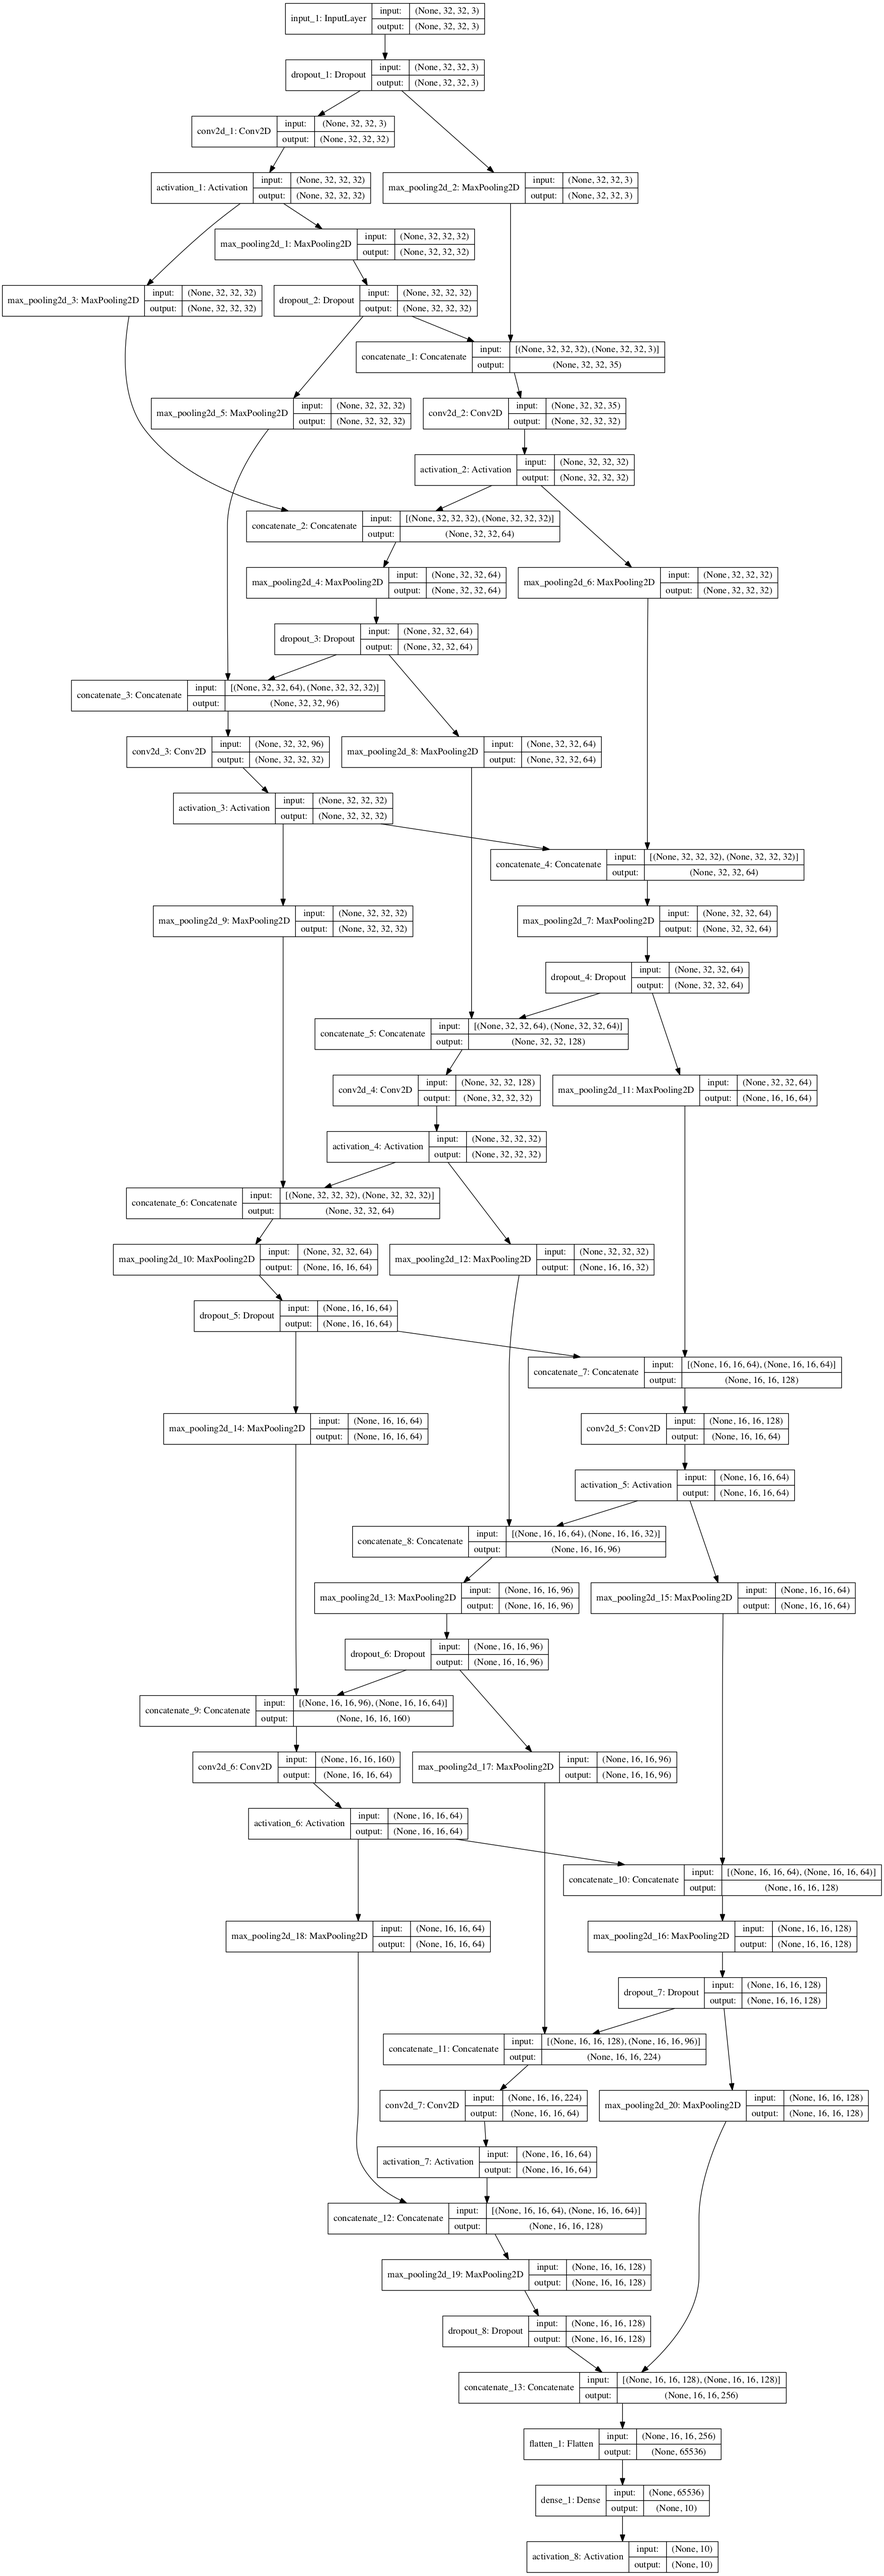
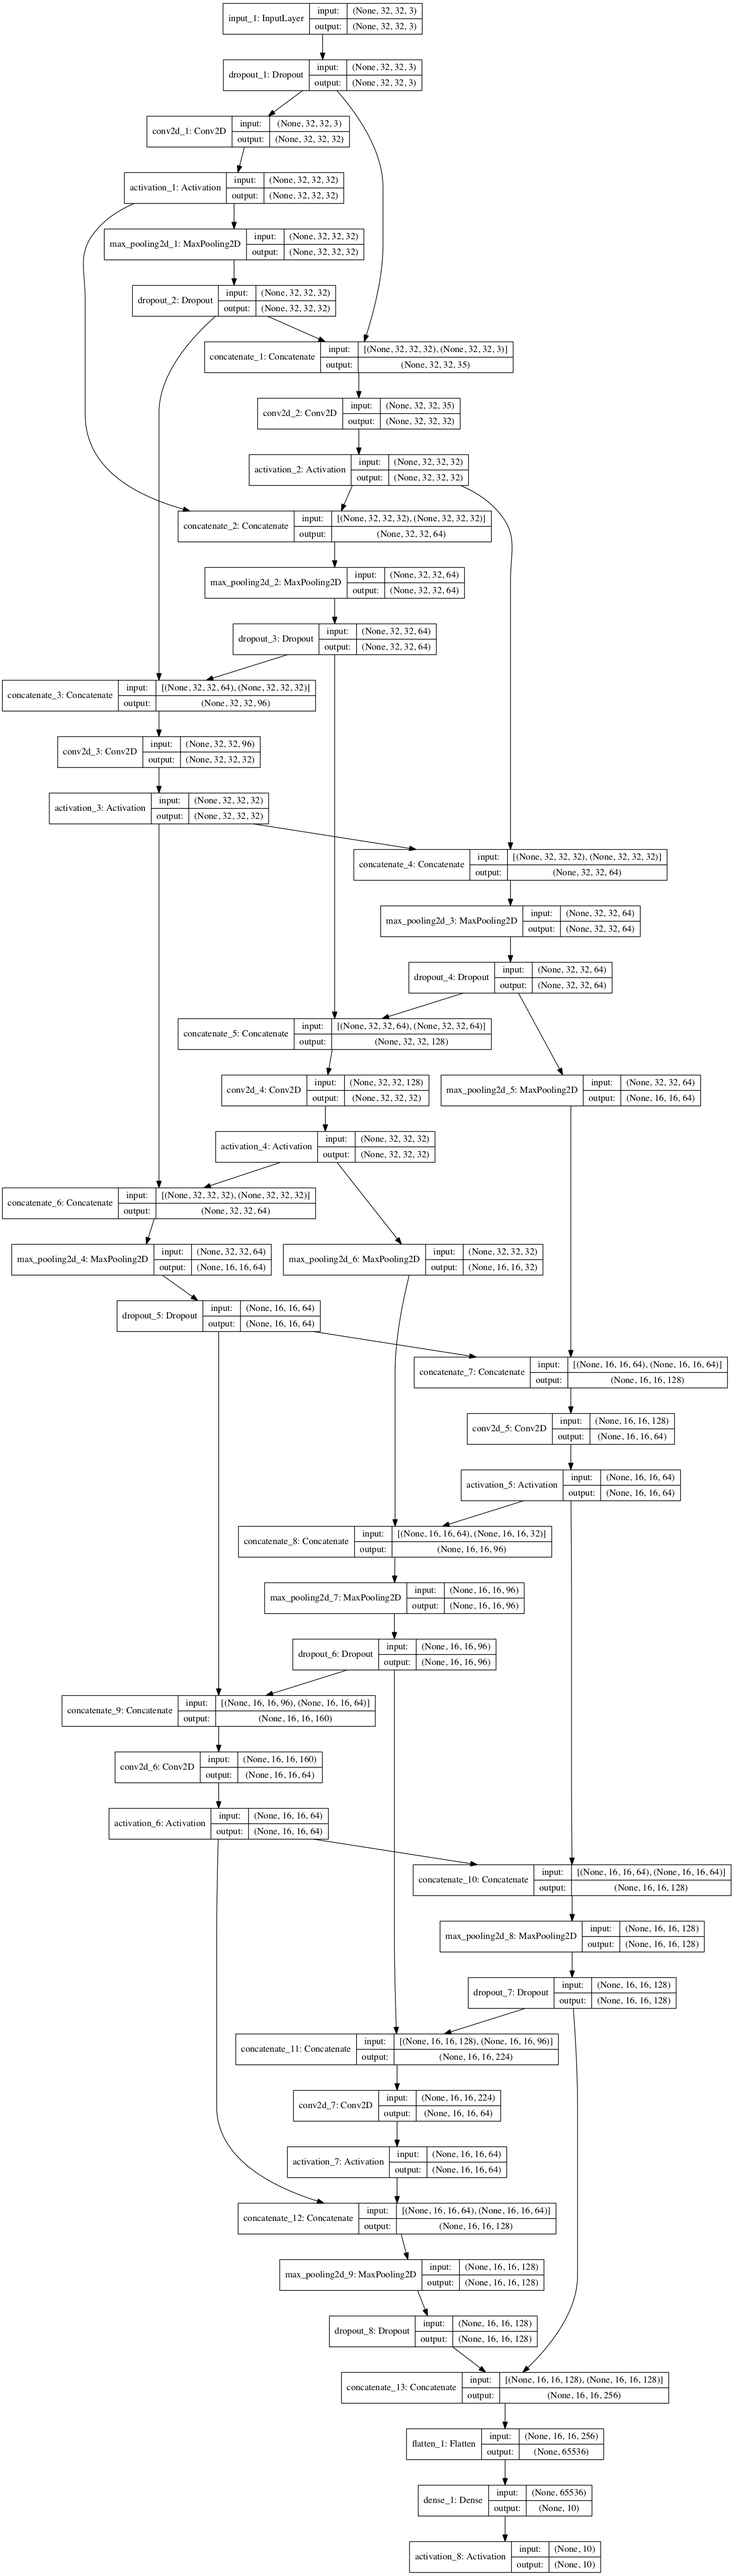
testing more dimension reduction

diff --git a/all_cnn_bi_skippy.py b/all_cnn_bi_skippy.py
@@ -74,18 +74,21 @@ class Skip_manager(object):
             return Concatenate()([layer, incoming_layer])
 
     def pool_pad_connect(self, layer, incoming_layer):
-        if K.int_shape(incoming_layer)[1] < K.int_shape(layer)[1] and K.int_shape(incoming_layer)[2] < K.int_shape(layer)[2]:
-            pass
-        elif K.int_shape(incoming_layer)[1] < K.int_shape(layer)[1] and K.int_shape(incoming_layer)[2] >= K.int_shape(layer)[2]:
-            print('error, not implemented yet')
-            pass
-        elif K.int_shape(incoming_layer)[1] >= K.int_shape(layer)[1] and K.int_shape(incoming_layer)[2] < K.int_shape(layer)[2]:
-            print('error, not implemented yet')
-            pass
-        else: #K.int_shape(incoming_layer)[1] > K.int_shape(layer)[1] and K.int_shape(incoming_layer)[2] > K.int_shape(layer)[2]
-            scalar_1 =  K.int_shape(incoming_layer)[1] // K.int_shape(layer)[1]
-            scalar_2 =  K.int_shape(incoming_layer)[2] // K.int_shape(layer)[2]
-            incoming_layer = MaxPooling2D(pool_size=(scalar_1, scalar_2), strides=(scalar_1, scalar_2), padding='same')(incoming_layer)
+        if K.int_shape(incoming_layer)[1] != K.int_shape(layer)[1] or K.int_shape(incoming_layer)[2] != K.int_shape(layer)[2]:
+            if K.int_shape(incoming_layer)[1] < K.int_shape(layer)[1] and K.int_shape(incoming_layer)[2] < K.int_shape(layer)[2]:
+                pass
+            elif K.int_shape(incoming_layer)[1] < K.int_shape(layer)[1] and K.int_shape(incoming_layer)[2] >= K.int_shape(layer)[2]:
+                scalar = K.int_shape(incoming_layer)[2] // K.int_shape(layer)[2]
+                incoming_layer = MaxPooling2D(pool_size=(1, scalar), strides=(1, scalar), padding='same')(incoming_layer)
+                print('warning: code used that is not tested, see: all_cnn_bi_skippy.py --> pool_pad_connect()')
+            elif K.int_shape(incoming_layer)[1] >= K.int_shape(layer)[1] and K.int_shape(incoming_layer)[2] < K.int_shape(layer)[2]:
+                scalar = K.int_shape(incoming_layer)[1] // K.int_shape(layer)[1]
+                incoming_layer = MaxPooling2D(pool_size=(scalar, 1), strides=(scalar, 1), padding='same')(incoming_layer)
+                print('warning: code used that is not tested, see: all_cnn_bi_skippy.py --> pool_pad_connect()')
+            else: #K.int_shape(incoming_layer)[1] > K.int_shape(layer)[1] and K.int_shape(incoming_layer)[2] > K.int_shape(layer)[2]
+                scalar_1 =  K.int_shape(incoming_layer)[1] // K.int_shape(layer)[1]
+                scalar_2 =  K.int_shape(incoming_layer)[2] // K.int_shape(layer)[2]
+                incoming_layer = MaxPooling2D(pool_size=(scalar_1, scalar_2), strides=(scalar_1, scalar_2), padding='same')(incoming_layer)
         return self.pad_and_connect(layer, incoming_layer)
 
     def connect_skip(self,layer):
@@ -514,7 +517,7 @@ def test_skippy():
     print(X)
     print(X[0].to_dict())
     #cfg = [Solution(x, index=len(self.data) + i, var_name=self.var_names) for i, x in enumerate(X)]
-    test = False
+    test = True
     if test:
         model = CNN_conf(X[0].to_dict(),test=test)
         #model = CNN_conf(vla,test=test)
